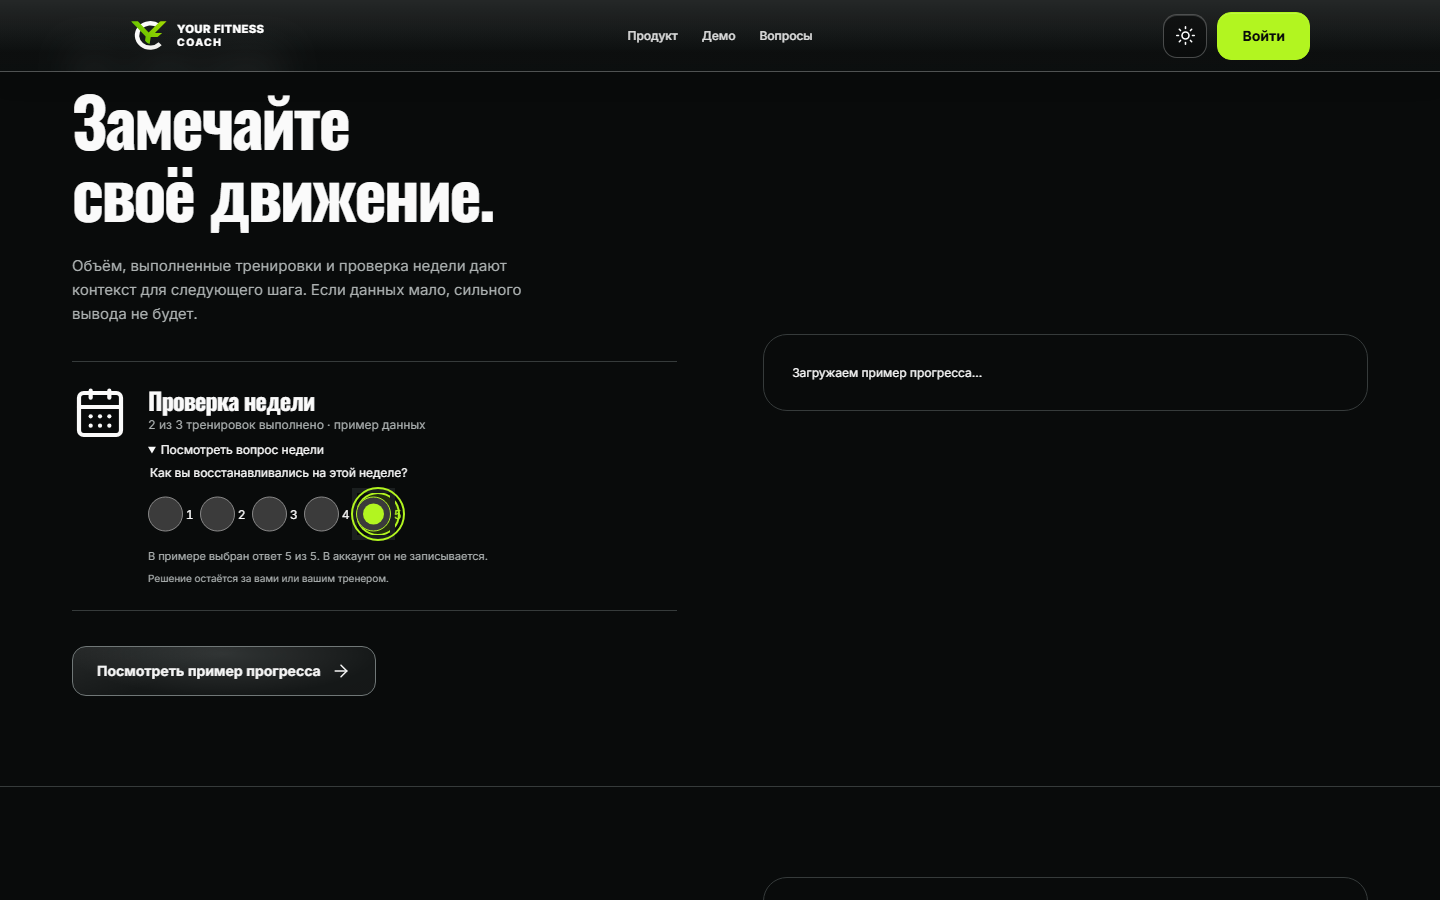
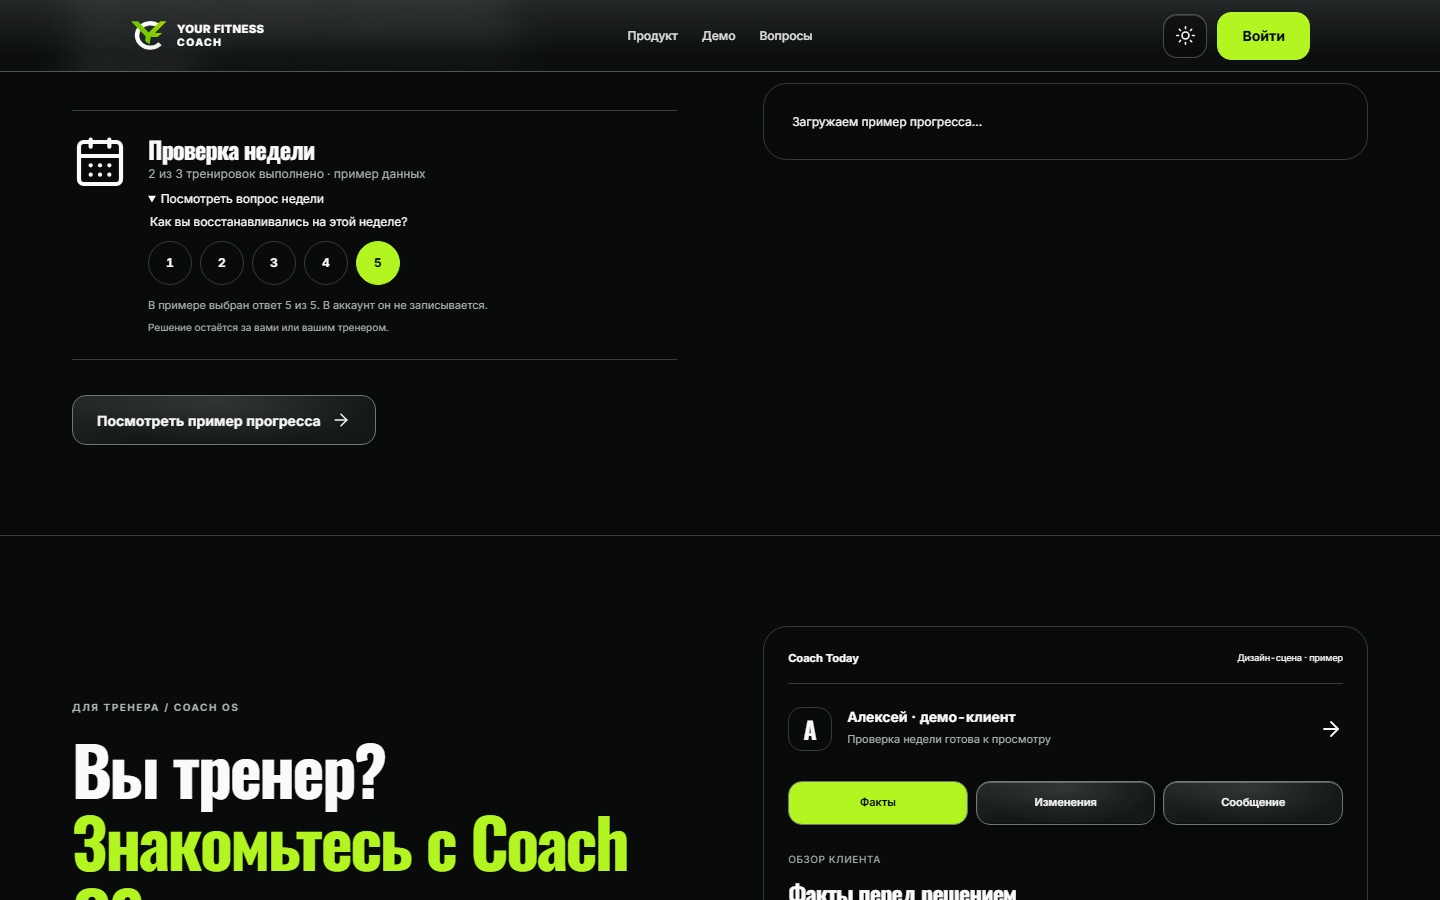
docs(landing): reshoot issue 903 acceptance evidence

diff --git a/docs/ux/final-issues-acceptance/evidence/903/README.md b/docs/ux/final-issues-acceptance/evidence/903/README.md
@@ -1,12 +1,26 @@
-# Issue #903 — real browser evidence
+# Issue #903 — comparable browser evidence
 
-The screenshots were captured from the built YFC landing application at `/for-athletes` with Chromium and the same fixture state. The weekly score disclosure was opened and score `5` selected so the selected and focus treatments are visible.
+The captures below come from the built YFC landing application at `/for-athletes`. Each state uses
+the same fixture, viewport, theme, scroll offset, loaded fonts and reduced-motion setting. The
+Playwright test also runs the same interaction contract on `/` and `/for-athletes`.
 
-| State | Dark | Light |
-| --- | --- | --- |
-| BEFORE · 390×844 | [before](./before/before-390-dark.png) | [before](./before/before-390-light.png) |
-| AFTER · 390×844 | [after](./after/after-390-dark.png) | [after](./after/after-390-light.png) |
-| BEFORE · 1440×900 | [before](./before/before-1440-dark.png) | [before](./before/before-1440-light.png) |
-| AFTER · 1440×900 | [after](./after/after-1440-dark.png) | [after](./after/after-1440-light.png) |
+Runtime commits:
 
-Source commits and runtime details are recorded in [provenance.json](./provenance.json).
+- BEFORE: `297ee2fd87f09ef6b5f7e2bd6753bd1ff7d38a55`
+- AFTER: `733933a7` (the code commit that removes the competing rings)
+
+Each cell contains a full viewport capture and a direct crop of the score scale.
+
+| State | 390×844 dark | 390×844 light | 1440×900 dark | 1440×900 light |
+| --- | --- | --- | --- | --- |
+| BEFORE · no selected value | [viewport](./before/none-390-dark.png) · [scale](./before/scale-none-390-dark.png) | [viewport](./before/none-390-light.png) · [scale](./before/scale-none-390-light.png) | [viewport](./before/none-1440-dark.png) · [scale](./before/scale-none-1440-dark.png) | [viewport](./before/none-1440-light.png) · [scale](./before/scale-none-1440-light.png) |
+| BEFORE · pointer selected 5 | [viewport](./before/before-390-dark.png) · [scale](./before/scale-pointer-390-dark.png) | [viewport](./before/before-390-light.png) · [scale](./before/scale-pointer-390-light.png) | [viewport](./before/before-1440-dark.png) · [scale](./before/scale-pointer-1440-dark.png) | [viewport](./before/before-1440-light.png) · [scale](./before/scale-pointer-1440-light.png) |
+| BEFORE · keyboard focus | [viewport](./before/keyboard-390-dark.png) · [scale](./before/scale-keyboard-390-dark.png) | [viewport](./before/keyboard-390-light.png) · [scale](./before/scale-keyboard-390-light.png) | [viewport](./before/keyboard-1440-dark.png) · [scale](./before/scale-keyboard-1440-dark.png) | [viewport](./before/keyboard-1440-light.png) · [scale](./before/scale-keyboard-1440-light.png) |
+| AFTER · no selected value | [viewport](./after/none-390-dark.png) · [scale](./after/scale-none-390-dark.png) | [viewport](./after/none-390-light.png) · [scale](./after/scale-none-390-light.png) | [viewport](./after/none-1440-dark.png) · [scale](./after/scale-none-1440-dark.png) | [viewport](./after/none-1440-light.png) · [scale](./after/scale-none-1440-light.png) |
+| AFTER · pointer selected 5 | [viewport](./after/after-390-dark.png) · [scale](./after/scale-pointer-390-dark.png) | [viewport](./after/after-390-light.png) · [scale](./after/scale-pointer-390-light.png) | [viewport](./after/after-1440-dark.png) · [scale](./after/scale-pointer-1440-dark.png) | [viewport](./after/after-1440-light.png) · [scale](./after/scale-pointer-1440-light.png) |
+| AFTER · keyboard focus | [viewport](./after/keyboard-390-dark.png) · [scale](./after/scale-keyboard-390-dark.png) | [viewport](./after/keyboard-390-light.png) · [scale](./after/scale-keyboard-390-light.png) | [viewport](./after/keyboard-1440-dark.png) · [scale](./after/scale-keyboard-1440-dark.png) | [viewport](./after/keyboard-1440-light.png) · [scale](./after/scale-keyboard-1440-light.png) |
+
+The AFTER state keeps native radio semantics, uses one circular selected surface, and shows the
+keyboard ring only for `:focus-visible`. A pointer click does not add a second focus ring.
+
+Source commits and capture details are recorded in [provenance.json](./provenance.json).
